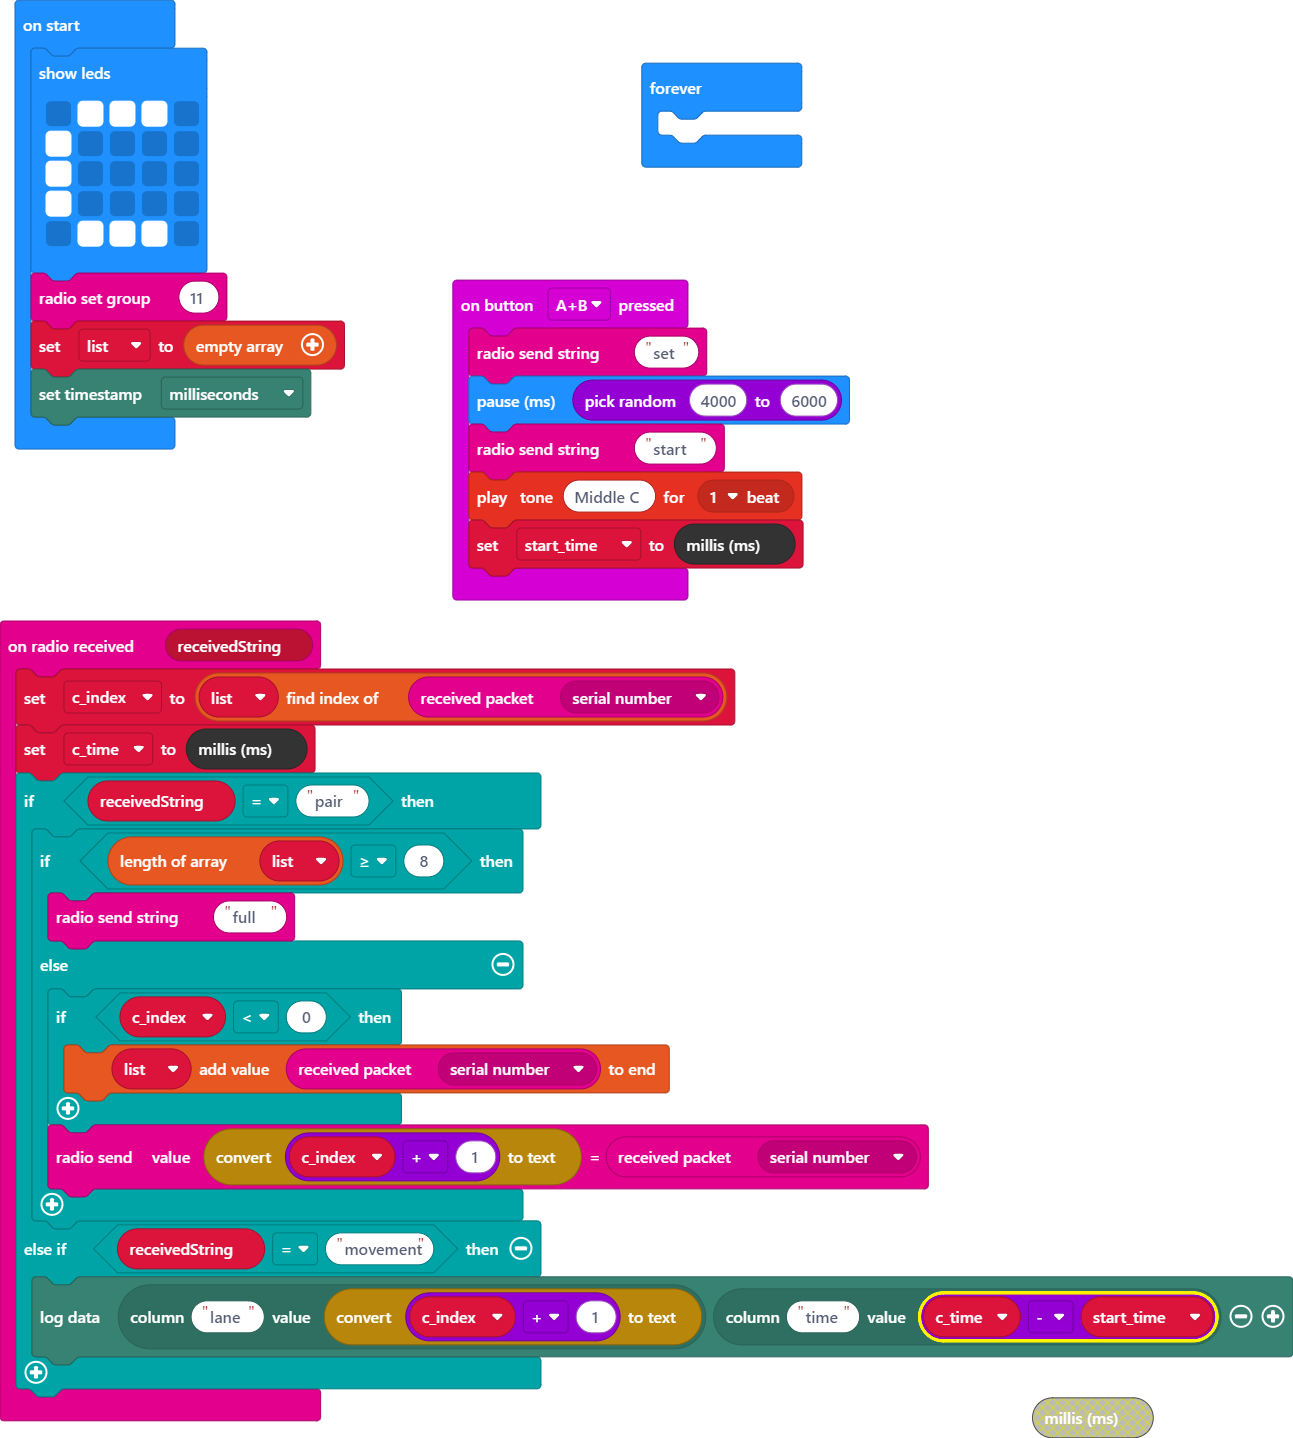
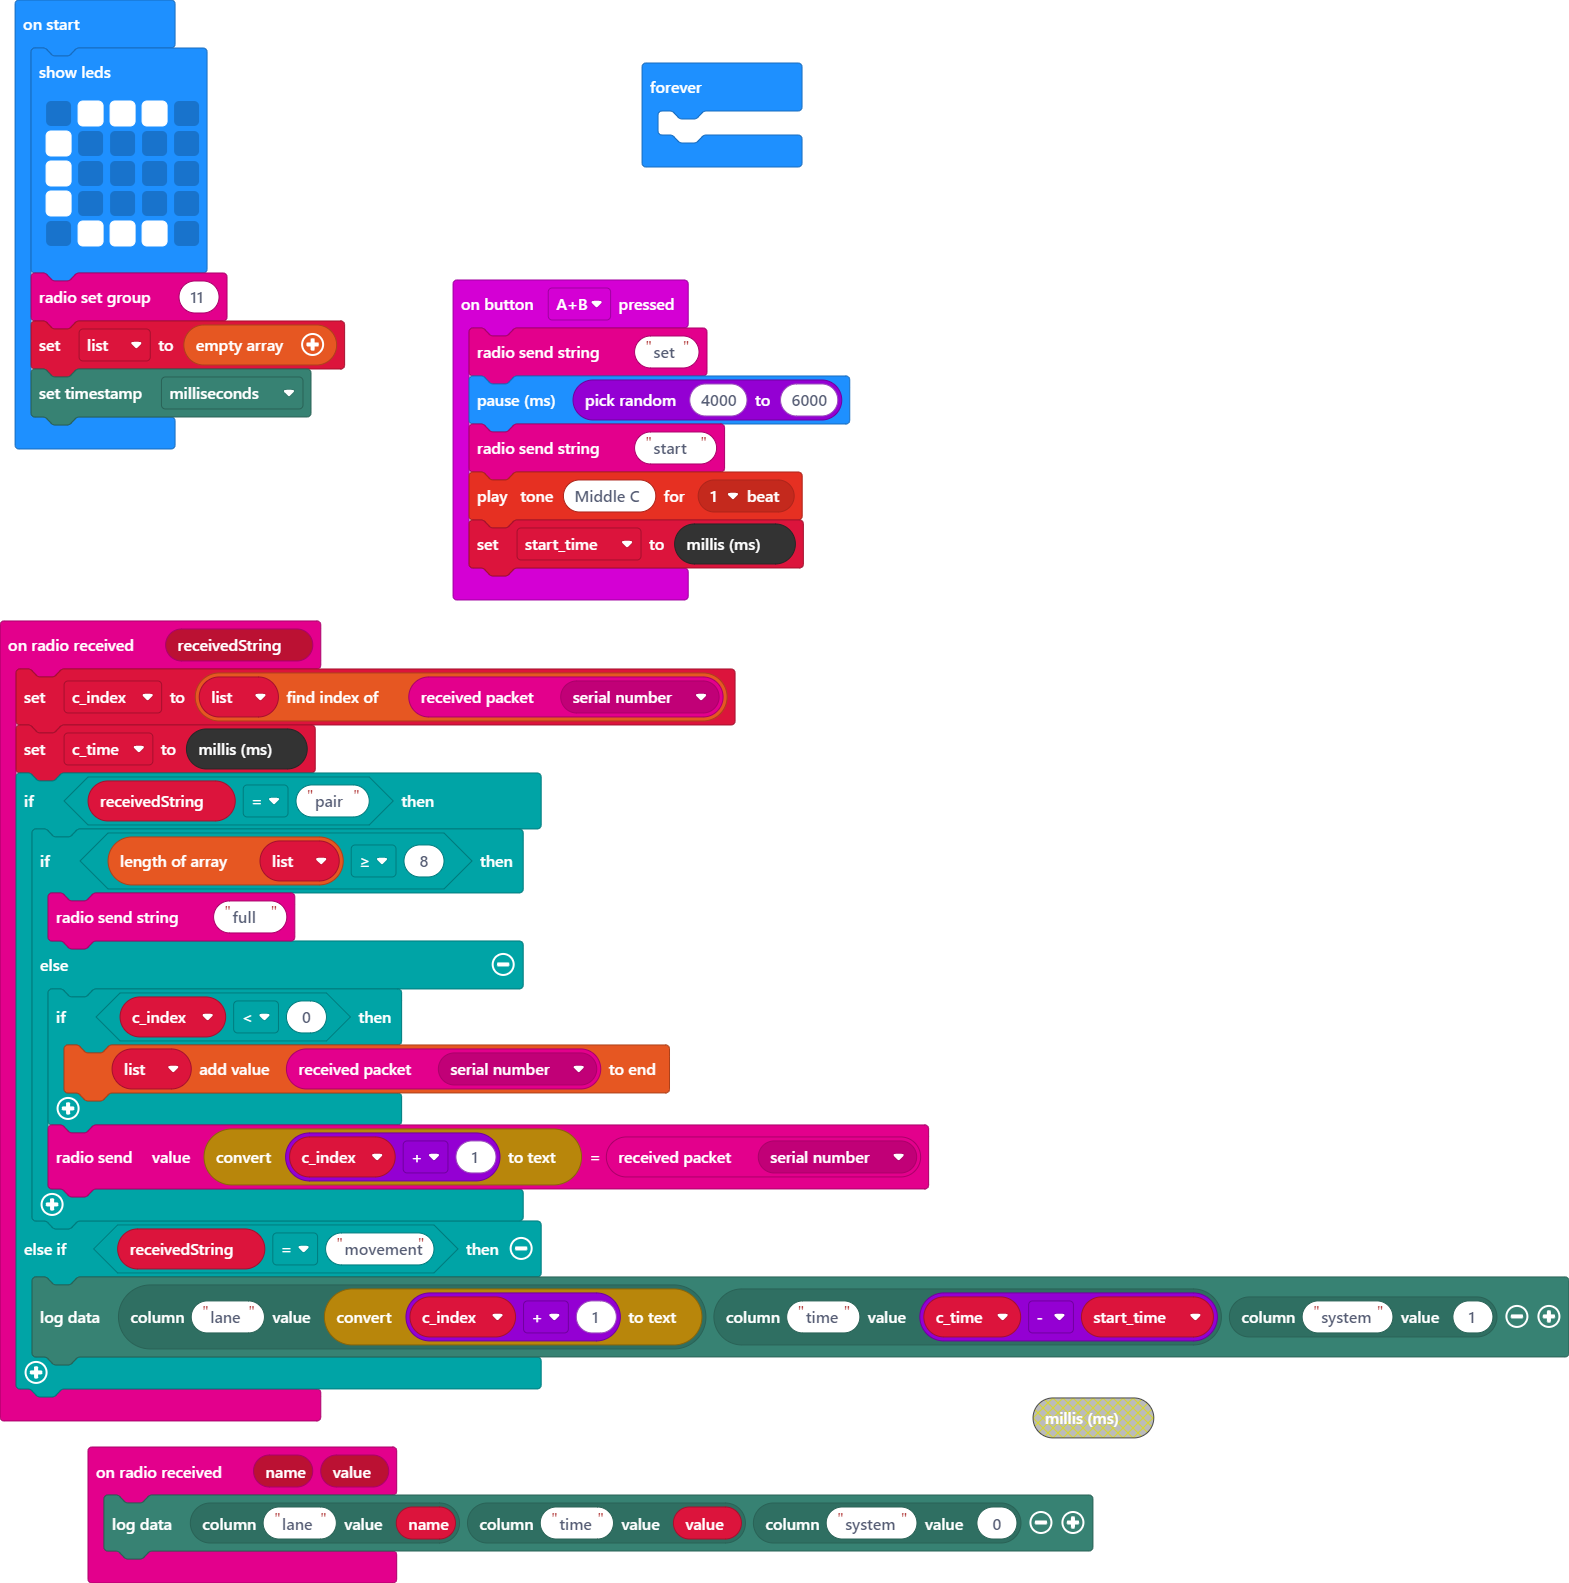
Update main.blocks, main.ts

diff --git a/main.ts b/main.ts
@@ -18,8 +18,11 @@ radio.onReceivedString(function (receivedString) {
             radio.sendValue(convertToText(c_index + 1), radio.receivedPacket(RadioPacketProperty.SerialNumber))
         }
     } else if (receivedString == "movement") {
-        datalogger.log(datalogger.createCV("lane", convertToText(c_index + 1)), datalogger.createCV("time", c_time - start_time))
+        datalogger.log(datalogger.createCV("lane", convertToText(c_index + 1)), datalogger.createCV("time", c_time - start_time), datalogger.createCV("system", 1))
     }
+})
+radio.onReceivedValue(function (name, value) {
+    datalogger.log(datalogger.createCV("lane", name), datalogger.createCV("time", value), datalogger.createCV("system", 0))
 })
 let c_time = 0
 let c_index = 0
